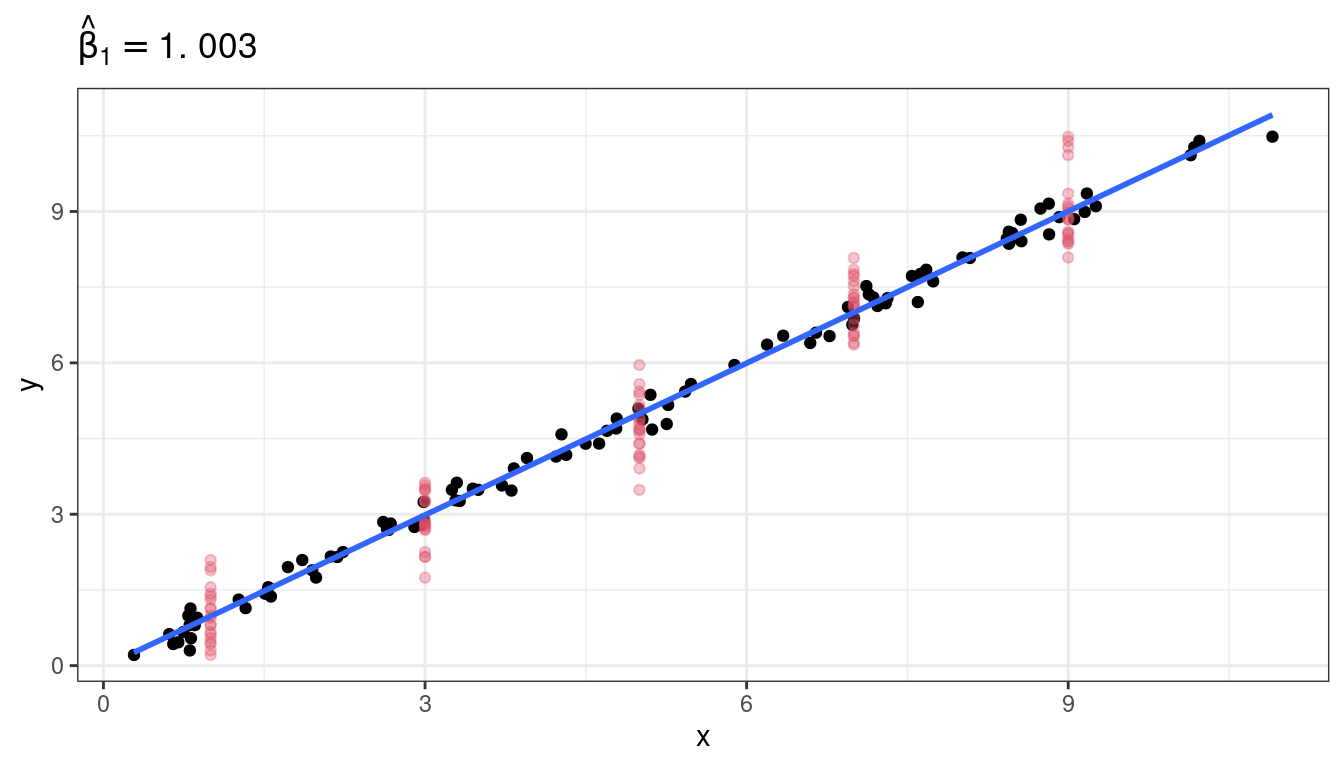
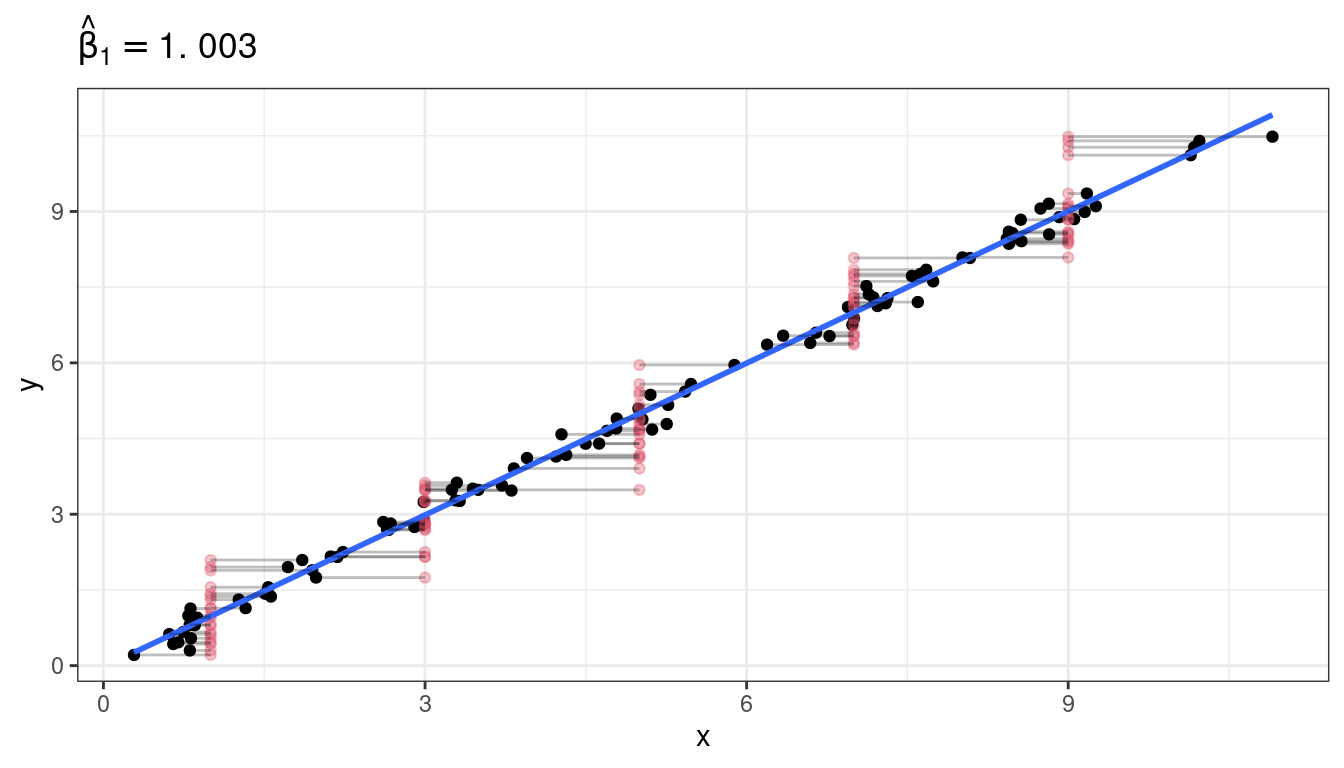
finish inverse prediction

diff --git a/docs/03_other_topics.html b/docs/03_other_topics.html
@@ -375,7 +375,7 @@ div.tocify {
   Pr(\text{at least one reject }|\text{ all null}) &amp;= 1 - Pr(\text{no reject }|\text{ all null})\\
   &amp;=1 - 0.95^p
   \end{align}\]</span></p></li>
-<li><p>That means that if we ran 100 hypothesis tests, the probability that at least one would be rejected is <span class="math inline">\(1 - 0.95^{100} = 0.9941\)</span>. So we would be almost gauranteed to have a false positive (falsely rejecting the null) somewhere.</p></li>
+<li><p>That means that if we ran 100 hypothesis tests, the probability that at least one would be rejected is <span class="math inline">\(1 - 0.95^{100} = 0.9941\)</span>. So we would be almost guaranteed to have a false positive (falsely rejecting the null) somewhere.</p></li>
 <li><p>Similarly, suppose we construct 100 prediction intervals for 100 new values. What is the probability that at least one prediction interval does not cover the new observation’s value? Assuming independence, it is the same calculation <span class="math inline">\(1 - 0.95^{100} = 0.9941\)</span>.</p></li>
 <li><p>So we are not really controlling for what we thought we were controlling.</p></li>
 <li><p>Coming up with new measures to control, or adjust testing procedures to account for multiple tests, is called <strong>simultaneous inference</strong>.</p></li>
@@ -464,7 +464,7 @@ plumb &lt;- tribble(~work, ~cost,
       &amp;= \beta_0 + \beta_1 X_i^* + \epsilon^*.
   \end{align}\]</span></p>
 <p>Thus, if we fit the model <span class="math inline">\(E[Y_i] = \beta_0 + \beta_1 X_i^*\)</span>, then our error term is <span class="math inline">\(\epsilon^* = -\beta_1\delta + \epsilon_i\)</span>.</p>
-<p>Since <span class="math inline">\(\epsilon^*\)</span> and <span class="math inline">\(X^*\)</span> both depend on the value of <span class="math inline">\(\delta_i\)</span>, they are <em>correlated</em>. In fact, they are negatively correlated</p>
+<p>Since <span class="math inline">\(\epsilon^*\)</span> and <span class="math inline">\(X^*\)</span> both depend on the value of <span class="math inline">\(\delta_i\)</span>, they are <em>correlated</em>.</p>
 <p><span class="math display">\[\begin{align}
   cov(X^*, \epsilon^*) &amp;= cov(X_i + \delta_i, -\beta_1\delta_i + \epsilon_i)\\
   &amp;= -\beta_1 cov(\delta_i, \delta_i)\\
@@ -512,7 +512,7 @@ plumb &lt;- tribble(~work, ~cost,
 <li><p><strong>Exercise</strong>: Each of the following describes a possible predictor. State whether using that predictor would be an example of a Berkson model versus a “classical error” model.</p>
 <ol style="list-style-type: decimal">
 <li><p>You want to create the world’s best brownies. So you are doing an experiment on how much sugar to add. You use a scale to measure out set weights of sugar. But you know that your scale is old and not too accurate.</p></li>
-<li><p>For each batch of brownies, you extract a small crumb at a randomly located position in the batch and send it in for pH analysis. The pH for the sample is accurate, but you worry that you are not getting the average pH of the brownie due to heterogenous pH throughout the brownie.</p></li>
+<li><p>For each batch of brownies, you extract a small crumb at a randomly located position in the batch and send it in for pH analysis. The pH for the sample is accurate, but you worry that you are not getting the average pH of the brownie due to heterogeneous pH throughout the brownie.</p></li>
 <li><p>You choose to vary the temperature of your oven for each batch, but you know your oven is a little fidgety.</p></li>
 <li><p>You measure density of the resulting brownies by pushing with your finger and rating density on a scale of 1 to 10.</p></li>
 <li><p>You set up a panel to taste test your brownies. One question asks how frequently the individual eats brownies, but you worry about memory issues.</p></li>
@@ -538,6 +538,82 @@ plumb &lt;- tribble(~work, ~cost,
 </div>
 <div id="inverse-prediction" class="section level1">
 <h1>Inverse Prediction</h1>
+<ul>
+<li><p>Sometimes you do a regression of <span class="math inline">\(Y\)</span> on <span class="math inline">\(X\)</span>, but want to predict the value of <span class="math inline">\(X\)</span> that results in a given value of <span class="math inline">\(Y\)</span>. This is called <strong>inverse prediction</strong> or, sometimes, <strong>calibration</strong>.</p>
+<ul>
+<li>i.e. predict <span class="math inline">\(X\)</span> from <span class="math inline">\(Y\)</span>.</li>
+</ul></li>
+<li><p>Examples:</p>
+<ol style="list-style-type: decimal">
+<li>You have a regression model for how much a drug (<span class="math inline">\(X\)</span>) will decrease cholesterol (<span class="math inline">\(Y\)</span>). You have a new patient that you want to reduce cholesterol by a certain amount (<span class="math inline">\(Y_{i(new)}\)</span>). How much drug should you give them (<span class="math inline">\(X_{i(new))}\)</span>?</li>
+<li>You have a model for pH of a steer carcass over time. A carcass pH should be about 6 (<span class="math inline">\(Y_{i(new)}\)</span>) before freezing. How long should you wait (<span class="math inline">\(X_{i(new)}\)</span>)?</li>
+</ol></li>
+<li><p>This second example comes from the Sleuth 3 package.</p>
+<pre class="r"><code>library(Sleuth3)
+data(&quot;case0702&quot;)
+steer &lt;- case0702
+glimpse(steer)</code></pre>
+<pre><code>## Rows: 10
+## Columns: 2
+## $ Time &lt;int&gt; 1, 1, 2, 2, 4, 4, 6, 6, 8, 8
+## $ pH   &lt;dbl&gt; 7.02, 6.93, 6.42, 6.51, 6.07, 5.99, 5.59, 5.80, 5.51, 5.36</code></pre></li>
+<li><p>We still have the model <span class="math display">\[
+  Y_i = \beta_0 + \beta_1 X_i + \epsilon_i
+  \]</span></p></li>
+<li><p>If we have the estimated regression line <span class="math display">\[
+  y = \hat{\beta}_0 + \hat{\beta_1}x
+  \]</span></p></li>
+<li><p>Then the predicted value of <span class="math inline">\(X_{i(new)}\)</span> is <span class="math display">\[
+  \hat{X}_{i(new)} = \frac{Y_{i(new)} - \hat{\beta}_0}{\hat{\beta}_1}
+  \]</span></p></li>
+</ul>
+<!-- - The prediction standard error is $s(\text{pred} X)$ where -->
+<!--     $$ -->
+<!--     s^2(\text{pred} X) = \frac{MSE}{\hat{\beta}_1^2}\left[1 + \frac{1}{n} + \frac{(\hat{X}_{i(new)} - \bar{X})^2}{\sum_{i=1}^n(X_i - \bar{X})^2}\right]  -->
+<!--     $$ -->
+<!-- - **Exercise**: What happens to the standard error as $\hat{\beta}_1$ gets closer to 0? -->
+<!--     ```{block, eval = FALSE, echo = FALSE} -->
+<!--     It increases. -->
+<!--     ``` -->
+<!-- - The 95\% prediction interval for $X_{i(new)}$ is -->
+<!--     $$ -->
+<!--     \hat{X}_{i(new)} \pm pt(1 - \alpha / 2, n - 2)s(\text{pred}X) -->
+<!--     $$ -->
+<ul>
+<li><p>To obtain a 95% prediction interval, you plot the 95% prediction bands, draw a horizontal line at the desired <span class="math inline">\(Y_{i(new)}\)</span>, then find the values of <span class="math inline">\(X\)</span> that cross those prediction bands.</p>
+<p><img src="03_figs/inverse_pred.png" /> </p></li>
+<li><p>You interpret the prediction interval still in terms of variability in <span class="math inline">\(Y\)</span> (not <span class="math inline">\(X\)</span>). We basically find a region of <span class="math inline">\(X\)</span> values where <span class="math inline">\(Y_{i(new)}\)</span> would be included in the prediction interval. <span class="math inline">\(X\)</span> values outside of this region would not have <span class="math inline">\(Y_{i(new)}\)</span> in the prediction interval.</p></li>
+<li><p>Why not just regress <span class="math inline">\(X\)</span> on <span class="math inline">\(Y\)</span>?</p>
+<ol style="list-style-type: decimal">
+<li><span class="math inline">\(Y\)</span> is noisy and <span class="math inline">\(X\)</span> is precise (see measurement error).</li>
+<li>We believe that <span class="math inline">\(X\)</span> might cause <span class="math inline">\(Y\)</span> (should “time” ever be a response variable for anything?)</li>
+</ol></li>
+<li><p>Use the <code>{investr}</code> to do inverse regression in R. (I logged the <code>Time</code> variable to correct for issues in the fit of the linear model).</p>
+<pre class="r"><code>library(investr)
+steer &lt;- mutate(steer, log_Time = log(Time))
+## always plot data first
+qplot(x = log_Time, y = pH, data = steer) +
+  geom_smooth(method = &quot;lm&quot;, se = FALSE)</code></pre>
+<p><img src="03_other_topics_files/figure-html/unnamed-chunk-19-1.png" width="672" style="display: block; margin: auto;" /></p>
+<pre class="r"><code>lmout &lt;- lm(pH ~ log_Time, data = steer)
+cout &lt;- calibrate(object = lmout, y0 = 6)</code></pre>
+<p>These are the predictions of <code>log(Time)</code>. To predict <code>Time</code>, we just exponentiate these values.</p>
+<pre class="r"><code>exp(cout$estimate)</code></pre>
+<pre><code>## [1] 3.879</code></pre>
+<pre class="r"><code>exp(cout$lower)</code></pre>
+<pre><code>## [1] 2.948</code></pre>
+<pre class="r"><code>exp(cout$upper)</code></pre>
+<pre><code>## [1] 5.124</code></pre>
+<p>So we predict that it takes anywhere from 2.9 to 5.1 hours to reach a pH of 6.</p></li>
+<li><p><strong>Exercise</strong>: the <code>crystal</code> data from the <code>{investr}</code> package measures the time (<code>time</code>) it takes to grow crystals to a final weight (<code>weight</code>) in grams. You can load it in R via</p>
+<pre class="r"><code>data(&quot;crystal&quot;)
+glimpse(crystal)</code></pre>
+<pre><code>## Rows: 14
+## Columns: 2
+## $ time   &lt;dbl&gt; 2, 4, 6, 8, 10, 12, 14, 16, 18, 20, 22, 24, 26, 28
+## $ weight &lt;dbl&gt; 0.08, 1.12, 4.43, 4.98, 4.92, 7.18, 5.57, 8.40, 8.81, 10.81, 11…</code></pre>
+<p>How long does it take a crystal to reach 10 g?</p></li>
+</ul>
 </div>
 
 
